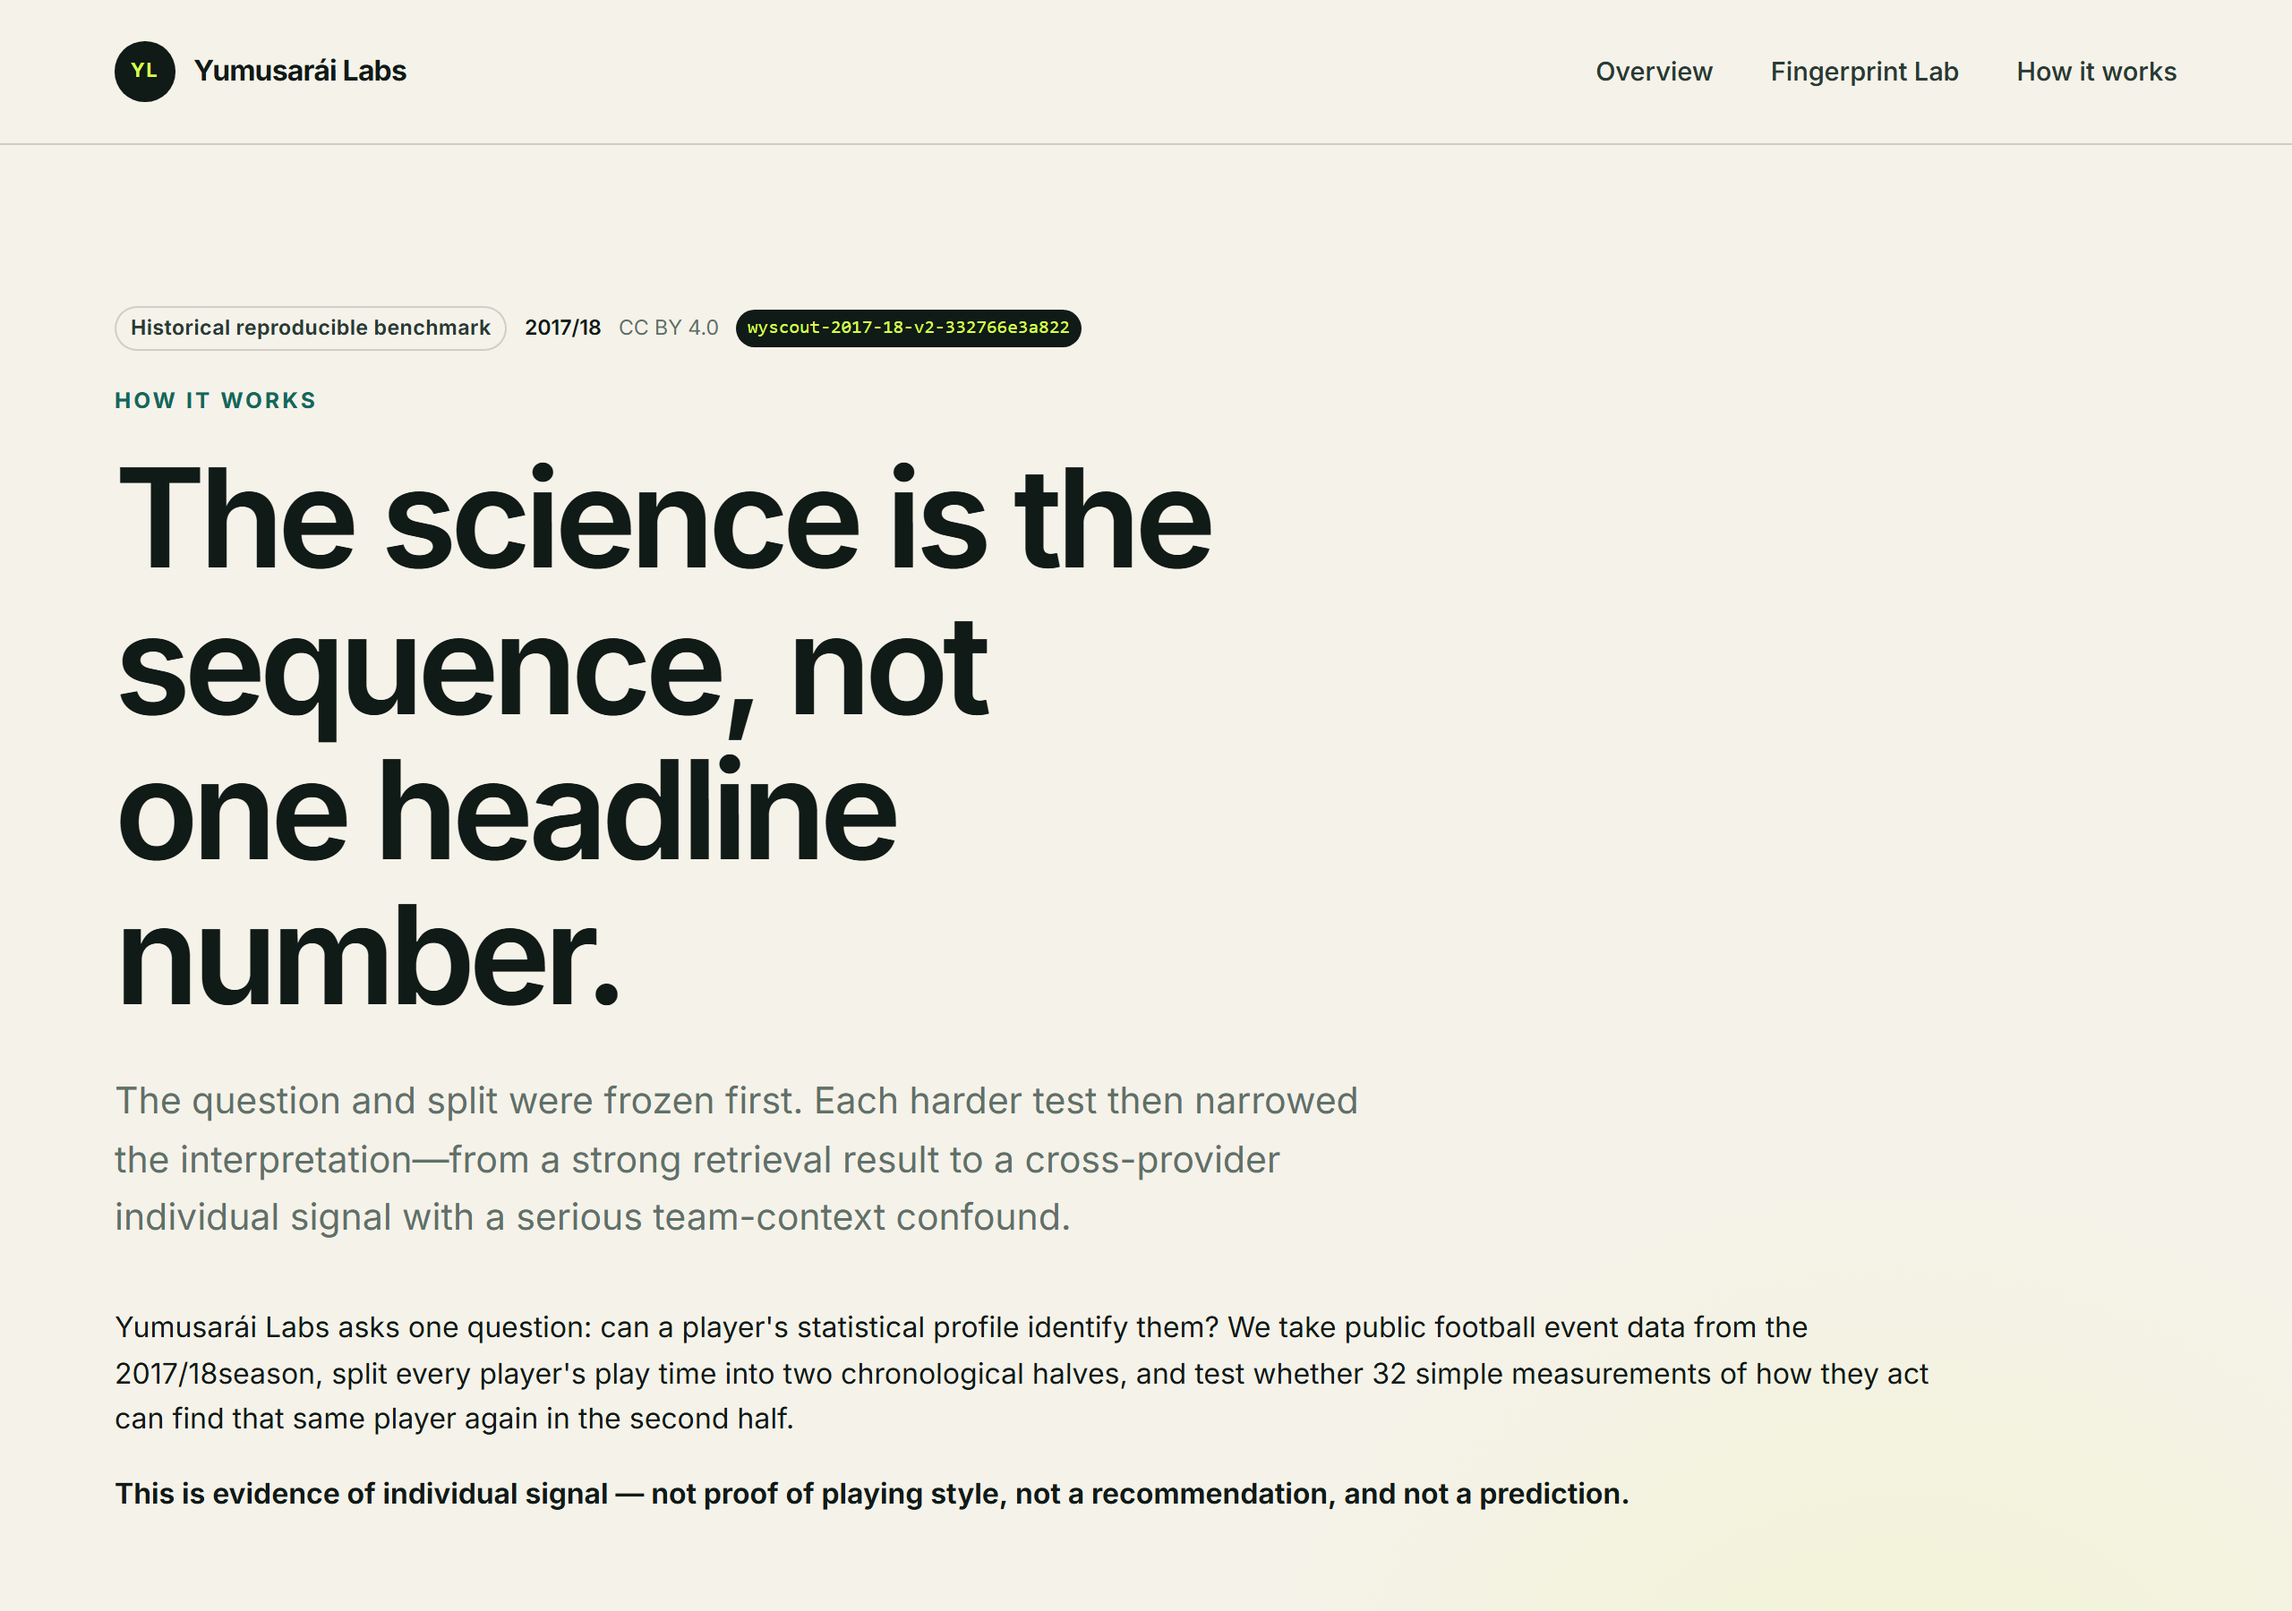
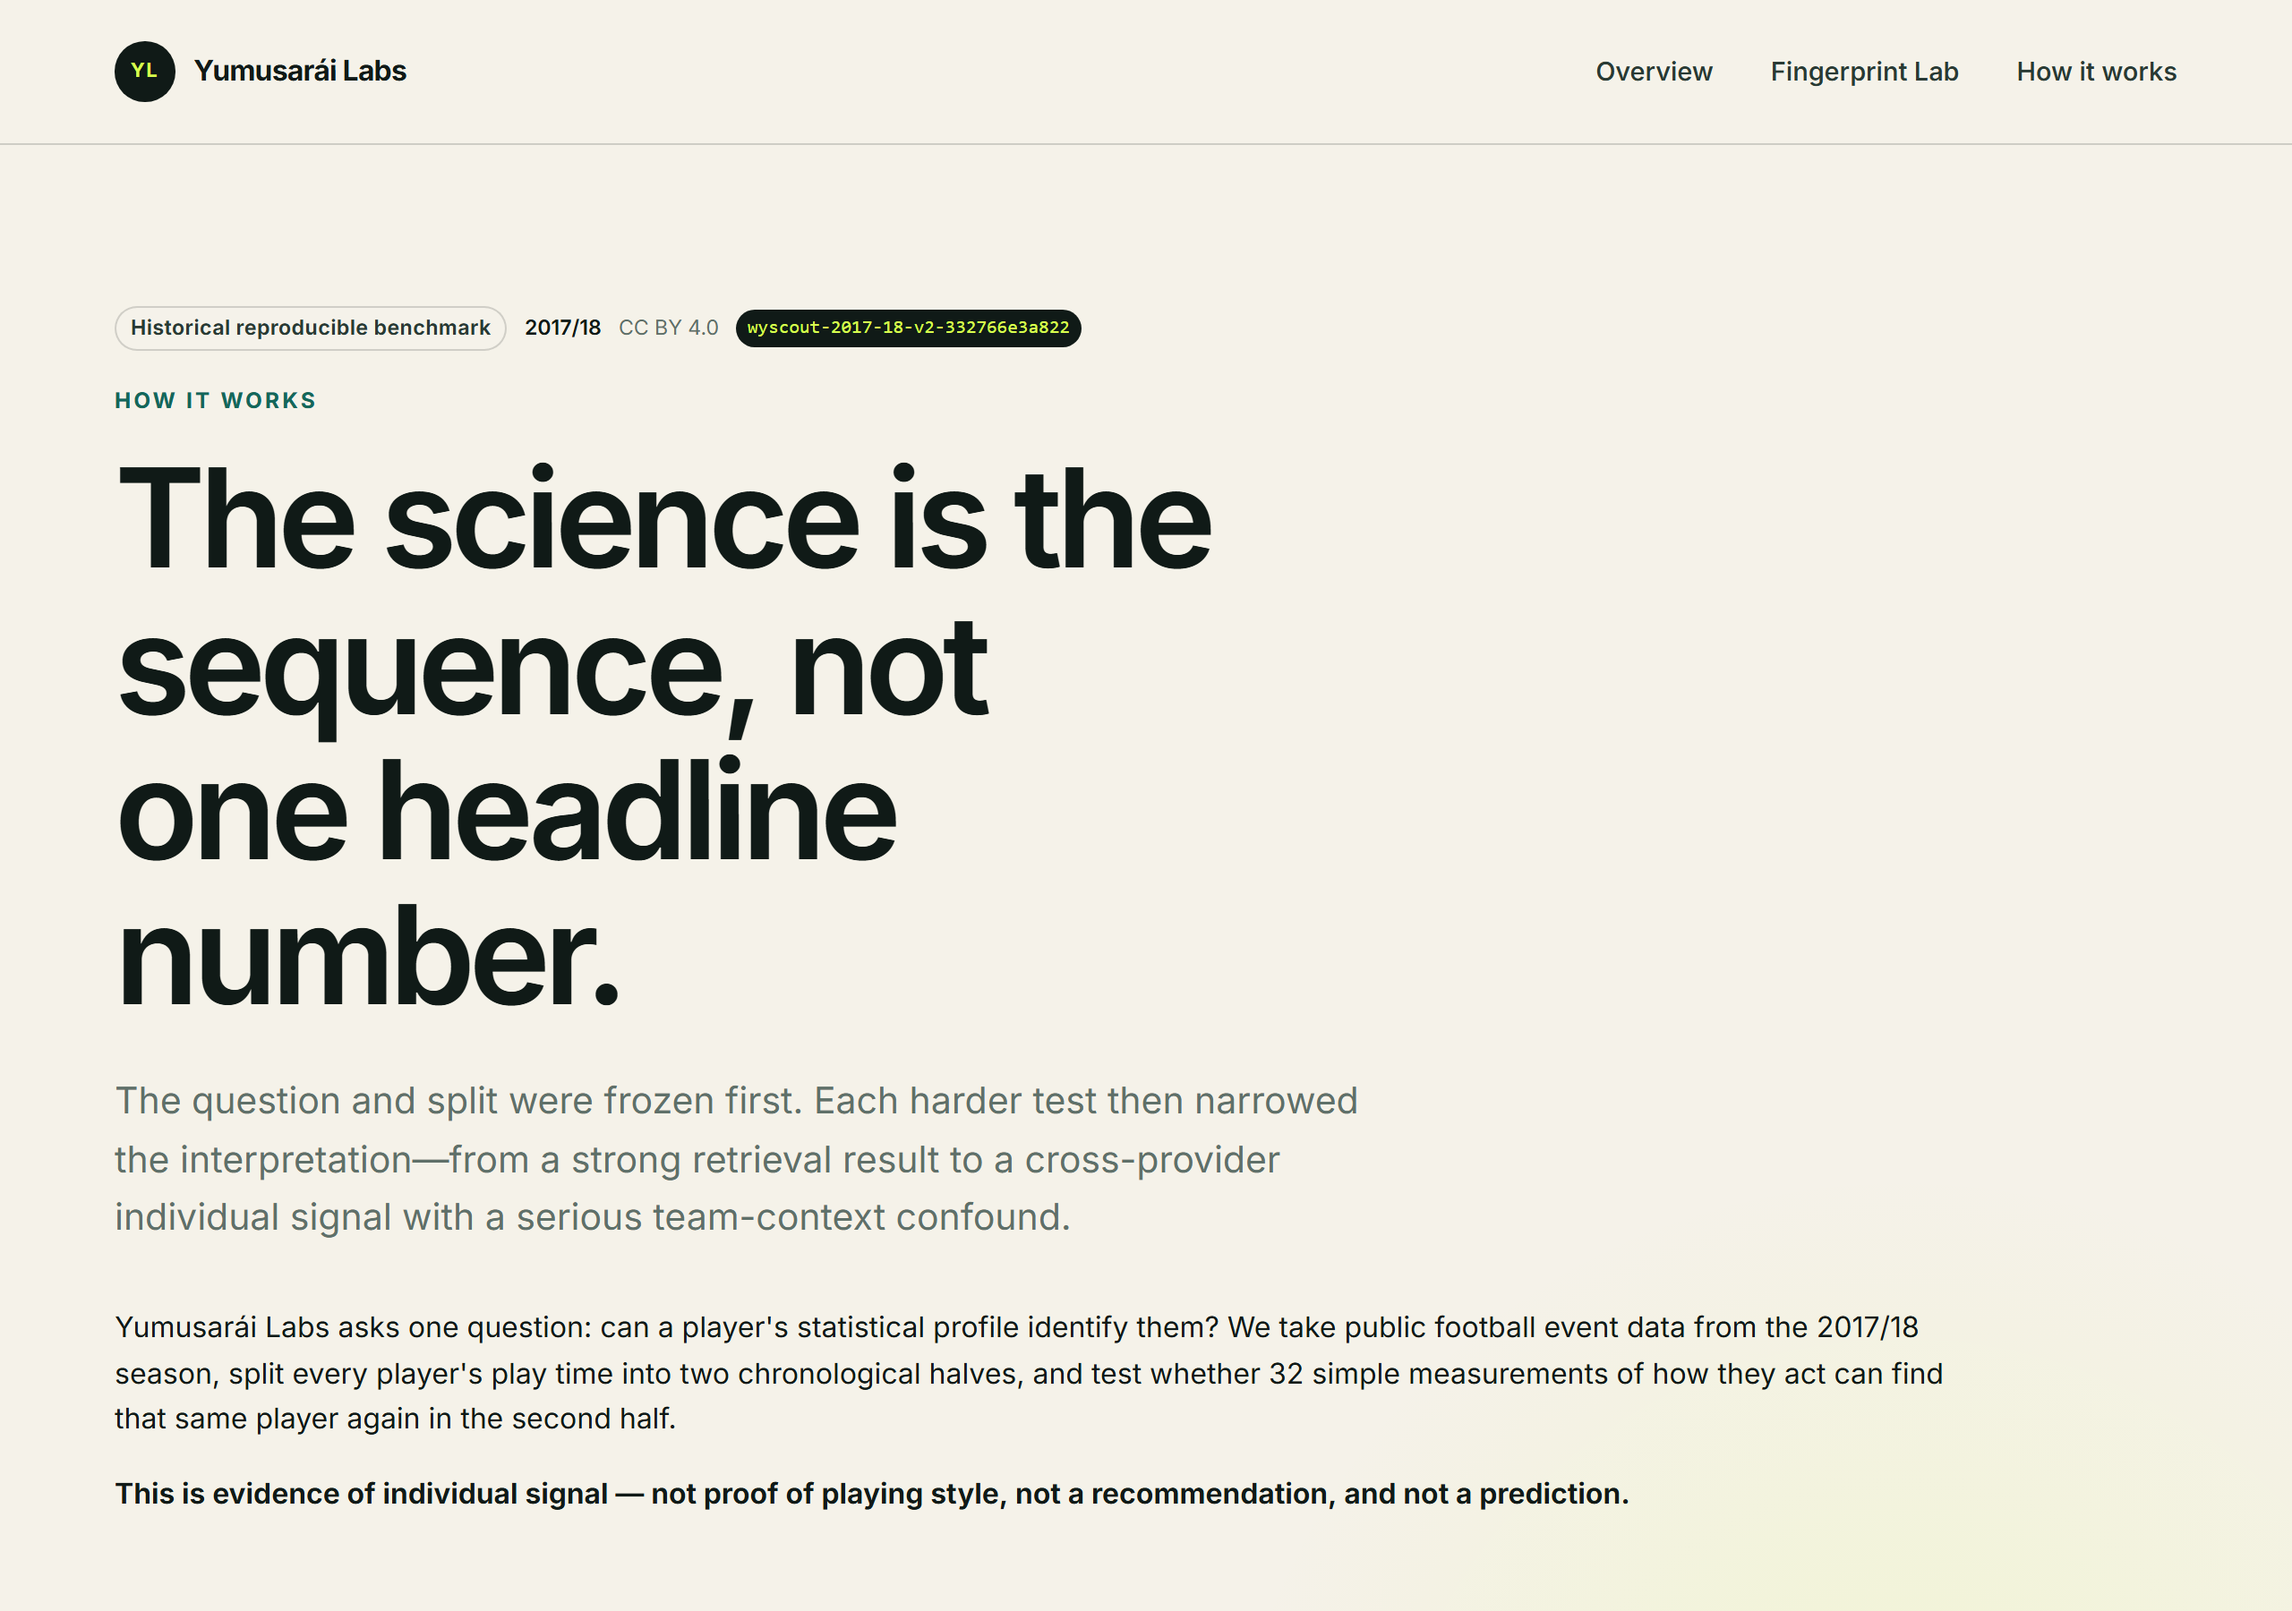
docs(media): re-capture from the deployment that has the fix (scoutlens-jtt.22)
9a3.16 removed the "2017/18season" typo from /science. That left two things
wrong here: science-desktop.png still showed it, and the media note still had a
section headed "A known defect these images show" describing it as open. A
repository documenting a defect it has already fixed is inaccurate in the same
way as one hiding a defect it still has.

Re-captured from https://grunobuide.github.io/scoutlens/ at
d79e3362c9e9424ec1412a2661e66a6d389e1b0e, deploy run 36475145629, smoke 10/10.

The source commit was READ OFF THE SERVED PAGE rather than inferred from the
Actions log — the first use of what scoutlens-uze.20 added two beads ago, and
exactly the case it was filed for.

FOUR OF FIVE IMAGES CAME BACK BYTE-IDENTICAL. Only science-desktop.png moved,
because only /science changed between the two deployments. Unchanged digests are
evidence here, not a failed capture: the capture script claims re-runs differ
only when the site does, and this is the second time that claim has been checked
rather than asserted. Recorded in the note so the next reader does not mistake
it for a mistake. The other four were read and accepted in vif.5 and hash to the
same bytes, so their acceptance stands.

The new image was opened and read. The paragraph now reads "...event data from
the 2017/18 season, split every player's play time..." and its alt text still
describes what is on screen without change.

Added the check that would have caught this staleness: the note's recorded
[…]

Changed region(s): [[0.0312, 0.8089, 0.8438, 0.9022]]

diff --git a/tests/release/test_public_identity_docs.py b/tests/release/test_public_identity_docs.py
@@ -214,6 +214,30 @@ def test_the_media_note_records_its_provenance(media_note: str) -> None:
     assert re.search(r"\b[0-9a-f]{7,40}\b", flat), "no source commit is recorded"
 
 
+def test_the_recorded_digests_are_the_digests_of_the_committed_images(
+    media_note: str,
+) -> None:
+    """`scoutlens-jtt.22`. The note must describe the images that are actually here.
+
+    Provenance is only worth recording if it stays true. This is the cheap half
+    of that — a note listing a digest no committed file has is describing some
+    other capture, which is how media quietly comes to document a version of the
+    site nobody ships.
+
+    It cannot prove the images came from the deployment the note names; that
+    needs the network. It can prove the note and the files have not drifted
+    apart, which is the failure that actually happened.
+    """
+    import hashlib
+
+    for image in MEDIA:
+        digest = hashlib.sha256((MEDIA_NOTE.parent / image).read_bytes()).hexdigest()
+        assert f"{digest}  {image}" in media_note, (
+            f"the note does not record the current digest of {image}; "
+            f"the committed file hashes to {digest}"
+        )
+
+
 def test_the_alt_text_describes_the_current_wordmark(media_note: str) -> None:
     """The failure this bead exists to prevent: media showing an obsolete brand.
 

diff --git a/docs/media/README.md b/docs/media/README.md
@@ -21,8 +21,8 @@ differ only when the site does.
 
 | | |
 |---|---|
-| Source commit | `0045ea41d4d518e5790017a2384abf66b833d60f` |
-| Deployed by | `deploy` run [36063429790](https://github.com/grunobuide/scoutlens/actions/runs/36063429790), 2026-09-24, smoke 9/9 |
+| Source commit | `d79e3362c9e9424ec1412a2661e66a6d389e1b0e` — read from the served page, not inferred (`scoutlens-uze.20`) |
+| Deployed by | `deploy` run [36475145629](https://github.com/grunobuide/scoutlens/actions/runs/36475145629), 2026-09-28, smoke 10/10 |
 | Captured from | <https://grunobuide.github.io/scoutlens/> |
 | Command | `node scripts/capture-media.mjs https://grunobuide.github.io/scoutlens/` |
 | Profile | `wy-8287-c-795` (L. Modrić, Spanish first division, 2017/18) |
@@ -33,15 +33,18 @@ differ only when the site does.
 68237814b27eab04ceb455d3178122608024cb6dfad272c7332c7ef2b3050234  lab-desktop.png
 9f0384b0658457ce3a2da088672f56dbeb5c6260d354419741b3dd0dc36f45f9  lab-evidence-desktop.png
 eee62b579fbbc2f3a979ce659ff6c086467dd8bef988538155df481b567a5c14  lab-retrieval-desktop.png
-0c7c2a007cfa932fbf0634d06eb7c9dcf312305c75a6dd7305970882d1bce875  science-desktop.png
+0d21c9235206f4da346b9a1ea56ad8dd8860ec80edd908f98727050c7f68b3ef  science-desktop.png
 386947bf7ce30cc97d60be27014a22e17525193310dbca7fb64bee46e5ba0eda  lab-mobile.png
 ```
 
-**Two of these five are byte-identical to the pre-rename capture.**
-`lab-evidence-desktop.png` and `lab-retrieval-desktop.png` are scrolled past the
-site header, so the wordmark is not in frame and nothing in them changed. That is
-not an oversight — it is the determinism claim above, checked: the only files
-whose digests moved are the three where the header is visible.
+**Four of these five are byte-identical to the previous capture.** Only
+`science-desktop.png` moved, because only `/science` changed between the two
+deployments. Unchanged digests here are evidence, not a failed capture: the
+determinism claim above says re-runs differ only when the site does, and this is
+that claim being checked rather than asserted.
+
+The same held for the rename capture before it, where the two shots scrolled
+past the site header came back identical because the wordmark was not in frame.
 
 ## Alt text
 
@@ -96,14 +99,6 @@ reader, not more.
 > "Yumusarái Labs" wordmark sit on their own row above the navigation, and the
 > badge row wraps onto two lines. The same heading, lede and fingerprint caveat
 > appear in a single column.
-
-## A known defect these images show
-
-`science-desktop.png` renders **"2017/18season"** with no space, in the
-introduction paragraph. That is `scoutlens-9a3.16`, open and unfixed. The
-screenshot is not retouched and the alt text does not quietly correct it: media
-shows what a reader actually gets, and a portfolio image that silently fixes a
-live defect is a small lie about the product.
 
 ## What is not here
 
